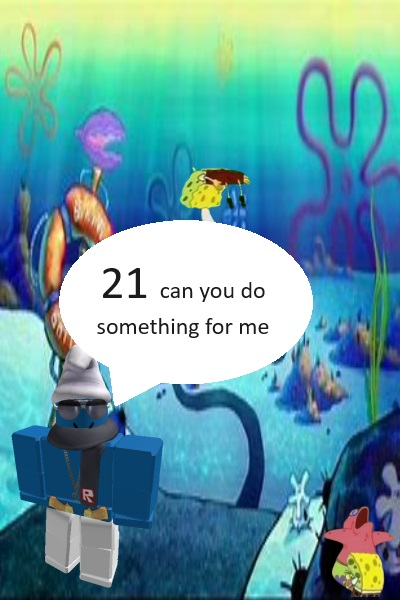
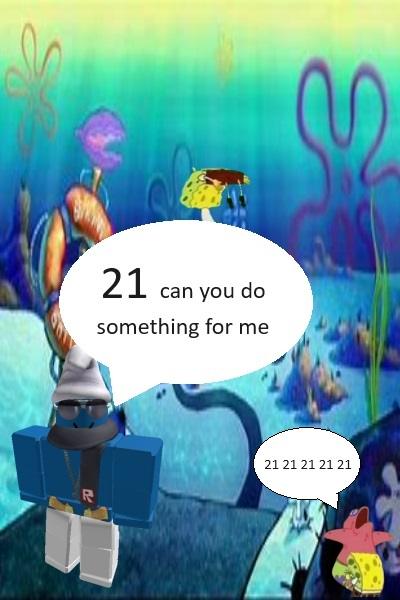
finish tyler pages

Changed region(s): [[0.63, 0.69, 0.9, 0.87]]

diff --git a/js/tyler.js b/js/tyler.js
@@ -1,12 +1,13 @@
 const openBtn = document.querySelector(".js-card-opener");
-let song = new Audio("../media/birthday_song.mp3");
+let song = new Audio("../media/21savage.mp3");
 let audioPlaying = false;
 
 openBtn.onclick = function () {
   console.log("Working")
   document.body.classList.toggle("open");
   if (!audioPlaying){
-    song.play();  
+    song.play();
+    song.loop = true;  
   } else {
     song.pause();
     song.currentTime = 0;

diff --git a/pages/tyler.html b/pages/tyler.html
@@ -13,7 +13,7 @@
           <img src="../img/tyler.jpg" alt="Front of Birthday Card">
         </div>
         <div class="card__panel card__panel--inside-left">
-          <img src="../img/dad.jpg" alt="Bike Picture">
+          <img src="../img/tyler1.png" alt="Bike Picture">
         </div>
         <div class="card__panel card__panel--inside-right">
           <p>
